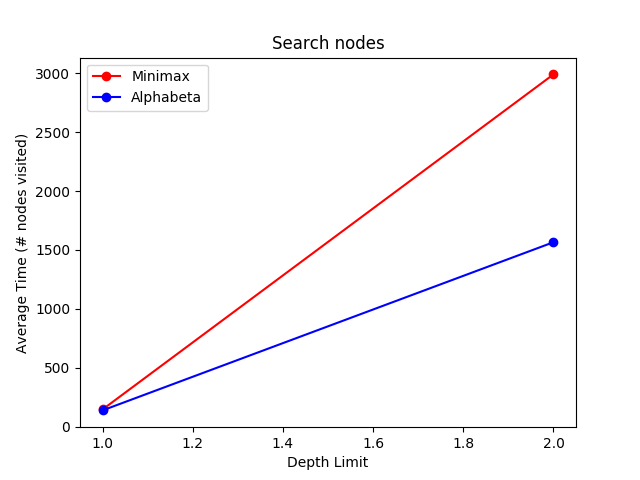
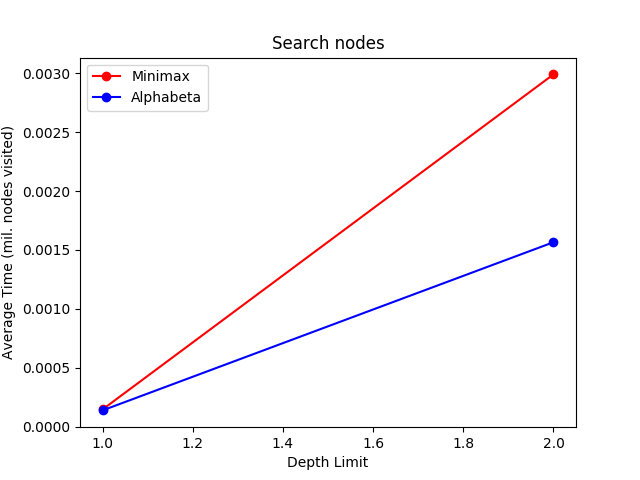
Modify plot scale

Changed region(s): [[0.0, 0.25, 0.125, 0.7812], [0.0312, 0.125, 0.125, 0.1875], [0.0312, 0.875, 0.125, 0.9062]]

diff --git a/A2/src/main.py b/A2/src/main.py
@@ -82,9 +82,9 @@ def getStats(depth_limit):
         #stats for minimax
         minimax_size, minimax_count, minimax_t, minimax_thr =\
             runGame(i, minimax, False, True)
-        avg_table_size_minimax.append(minimax_size)
-        avg_node_count_minimax.append(minimax_count)
-        times_per_minimax_run.append(minimax_t*1000)
+        avg_table_size_minimax.append(minimax_size/1000)
+        avg_node_count_minimax.append(minimax_count/1000000)
+        times_per_minimax_run.append(minimax_t)
 
         print("MINIMAX GAME: ", end='')
         print(minimax_size, minimax_count, minimax_t, minimax_thr)
@@ -92,9 +92,9 @@ def getStats(depth_limit):
         #stats for alphabeta
         alphabeta_size, alphabeta_nodes, alphabeta_t, alphabeta_thr = \
             runGame(i, alphaBeta, False, True)
-        avg_table_size_alphabeta.append(alphabeta_size)
-        avg_node_count_alphabeta.append(alphabeta_nodes)
-        times_per_alphabeta_run.append(alphabeta_t*1000)
+        avg_table_size_alphabeta.append(alphabeta_size/1000)
+        avg_node_count_alphabeta.append(alphabeta_nodes/1000000)
+        times_per_alphabeta_run.append(alphabeta_t)
 
         print("ALPHA_BETA GAME: ", end='')
         print(alphabeta_size, alphabeta_nodes, alphabeta_t, alphabeta_thr)
@@ -102,14 +102,14 @@ def getStats(depth_limit):
         print("\nFinished Minimax and AlphaBeta for depth:", i, "\n-----\n\n")
 
     generatePlot(depth_limit, avg_table_size_minimax, \
-                 avg_table_size_alphabeta, "Average Space" +\
-                 "(# nodes in transposition table)",\
+                 avg_table_size_alphabeta,\
+                 "Transposition table size (1000 nodes)",\
                  "Memory")
     generatePlot(depth_limit, avg_node_count_minimax, \
-                 avg_node_count_alphabeta, "Average Time (# nodes visited)", \
+                 avg_node_count_alphabeta, "Average Time (mil. nodes visited)",\
                  "Search nodes")
     generatePlot(depth_limit, times_per_minimax_run, \
-                 times_per_alphabeta_run, "Average Runtime Per Ply (ms)", \
+                 times_per_alphabeta_run, "Average Runtime Per Ply (s)", \
                  "Time per ply")
 
 def main():
